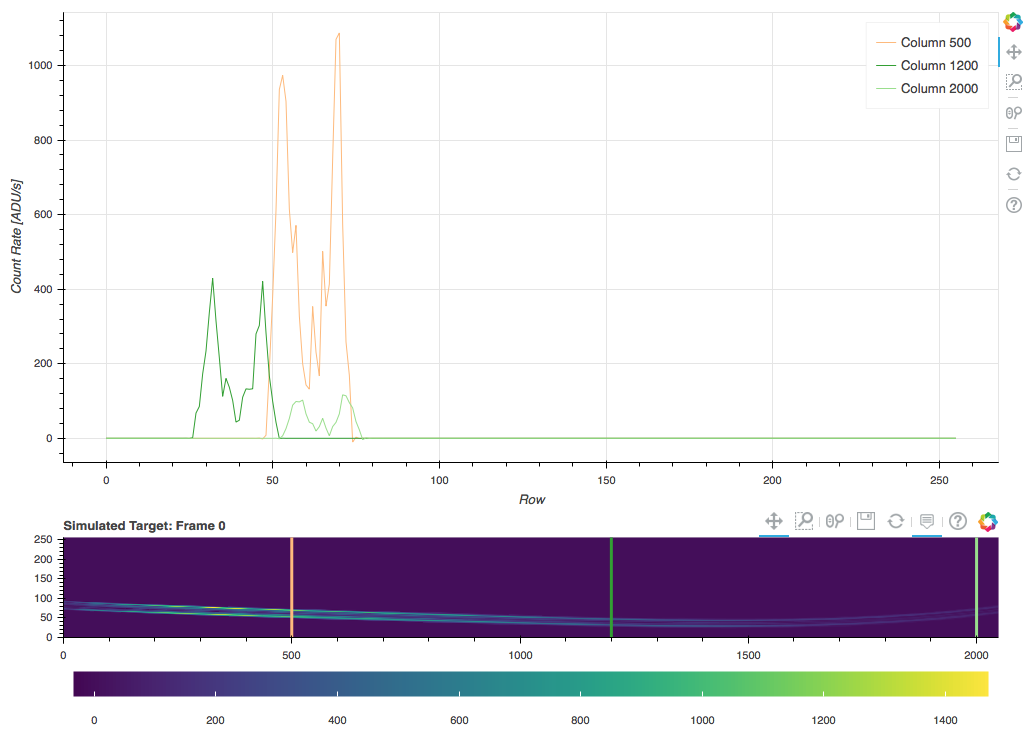
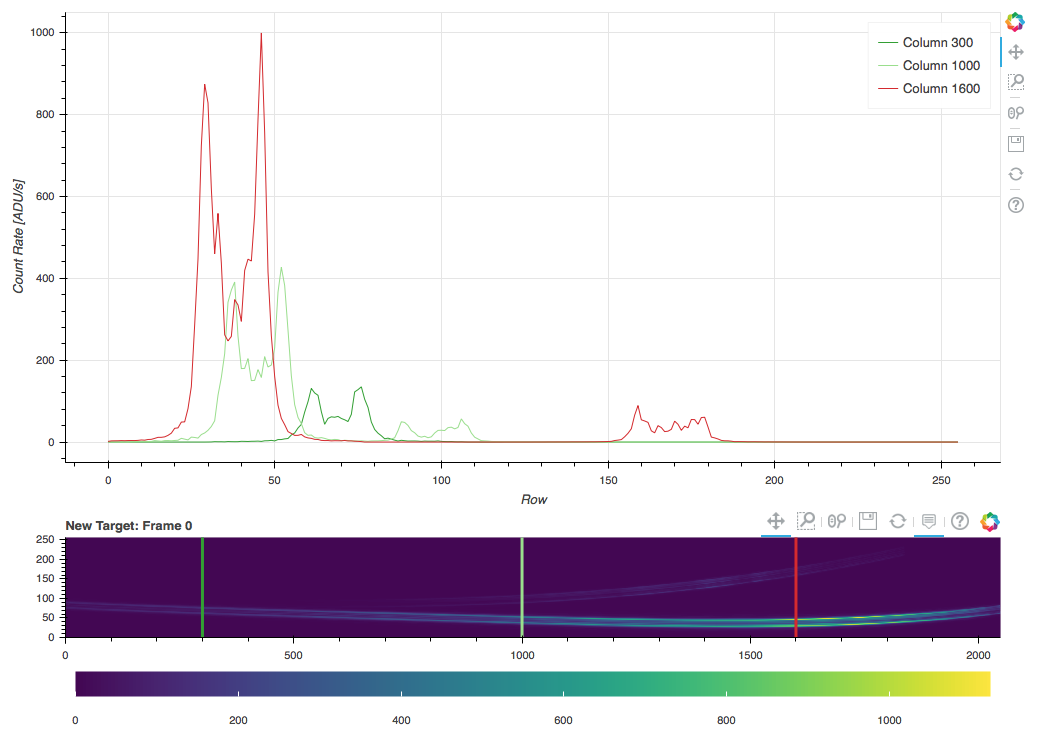
Updated figures and README

diff --git a/awesimsoss/awesim.py b/awesimsoss/awesim.py
@@ -45,13 +45,13 @@ warnings.simplefilter('ignore')
 def run_required(func):
     """A wrapper to check that the simulation has been run before a method can be executed"""
     @wraps(func)
-    def _run_required(*args):
+    def _run_required(*args, **kwargs):
         """Check that the 'tso' attribute is not None"""
         if args[0].tso is None:
             print("No simulation found! Please run the 'simulate' method first.")
 
         else:
-            return func(*args)
+            return func(*args, **kwargs)
 
     return _run_required
 
@@ -148,6 +148,7 @@ class TSO(object):
         # Generate the response function
         self._reset_response()
 
+    @run_required
     def add_noise(self, zodi_scale=1., offset=500):
         """
         Generate ramp and background noise
@@ -163,7 +164,7 @@ class TSO(object):
         start = time.time()
 
         # Get the separated orders
-        orders = np.asarray([self.tso_order1_ideal, self.tso_order2_ideal])
+        orders = np.asarray([getattr(self, 'tso_order{}_ideal'.format(i)) for i in self.orders])
 
         # Load the reference files
         photon_yield = fits.getdata(resource_filename('awesimsoss', 'files/photon_yield_dms.fits'))
@@ -231,6 +232,7 @@ class TSO(object):
 
         print('Noise model finished:', round(time.time()-start, 3), 's')
 
+    @run_required
     def add_refpix(self, counts=0):
         """Add reference pixels to detector edges
 
@@ -645,7 +647,7 @@ class TSO(object):
         show(ramp)
 
     @run_required
-    def plot_lightcurve(self, column=None, time_unit='s', resolution_mult=20):
+    def plot_lightcurve(self, column, time_unit='s', resolution_mult=20):
         """
         Plot a lightcurve for each column index given
 
@@ -672,9 +674,6 @@ class TSO(object):
         # Make it into an array
         if isinstance(column, (int, float)):
             column = [column]
-
-        if column is None:
-            column = list(range(self.tso.shape[-1]))
 
         # Make the figure
         lc = figure()
@@ -784,10 +783,8 @@ class TSO(object):
             self.dims3 = (self.nints*self.ngrps, self.nrows, self.ncols)
 
             # Reset the results
-            self.tso = None
-            self.tso_ideal = None
-            self.tso_order1_ideal = None
-            self.tso_order2_ideal = None
+            for arr in ['tso', 'tso_ideal']+['tso_order{}_ideal'.format(n) for n in self.orders]:
+                setattr(self, arr, None)
 
     def _reset_time(self):
         """Reset the time axis based on the observation settings"""
@@ -1021,12 +1018,12 @@ class TSO(object):
 
         # Trim SUBSTRIP256 array if SUBSTRIP96
         if self.subarray == 'SUBSTRIP96':
-            for arr in ['tso', 'tso_ideal', 'tso_order1_ideal', 'tso_order2_ideal']:
+            for arr in ['tso', 'tso_ideal']+['tso_order{}_ideal'.format(n) for n in self.orders]:
                 setattr(self, arr, getattr(self, arr)[:, :self.nrows, :])
 
         # Expand SUBSTRIP256 array if FULL frame
         if self.subarray == 'FULL':
-            for arr in ['tso', 'tso_ideal', 'tso_order1_ideal', 'tso_order2_ideal']:
+            for arr in ['tso', 'tso_ideal']+['tso_order{}_ideal'.format(n) for n in self.orders]:
                 full = np.zeros(self.dims3)
                 full[:, :256, :] = getattr(self, arr)
                 setattr(self, arr, full)
@@ -1036,10 +1033,9 @@ class TSO(object):
         self.add_noise()
 
         # Reshape into (nints, ngrps, y, x)
-        self.tso = self.tso.reshape(self.dims)
-        self.tso_ideal = self.tso_ideal.reshape(self.dims)
-        self.tso_order1_ideal = self.tso_order1_ideal.reshape(self.dims)
-        self.tso_order2_ideal = self.tso_order2_ideal.reshape(self.dims)
+        for arr in ['tso', 'tso_ideal']+['tso_order{}_ideal'.format(n) for n in self.orders]:
+            data = getattr(self, arr).reshape(self.dims)
+            setattr(self, arr, data)
 
         # Simulate reference pixels
         self.add_refpix()
@@ -1205,7 +1201,7 @@ class TSO(object):
 
 class TestTSO(TSO):
     """Generate a test object for quick access"""
-    def __init__(self, ngrps=2, nints=2, filter='CLEAR', subarray='SUBSTRIP256', run=True, **kwargs):
+    def __init__(self, ngrps=2, nints=2, filter='CLEAR', subarray='SUBSTRIP256', run=True, add_planet=False, **kwargs):
         """Get the test data and load the object
 
         Parameters
@@ -1220,6 +1216,8 @@ class TestTSO(TSO):
             The name of the subarray to use, ['SUBSTRIP256', 'SUBSTRIP96', 'FULL']
         run: bool
             Run the simulation after initialization
+        add_planet: bool
+            Add a transiting exoplanet
         """
         # Get stored data
         file = resource_filename('awesimsoss', 'files/scaled_spectrum.txt')
@@ -1231,12 +1229,31 @@ class TestTSO(TSO):
 
         # Run the simulation
         if run:
-            self.simulate()
+            if add_planet:
+
+                planet1D = np.genfromtxt(resource_filename('awesimsoss', '/files/WASP107b_pandexo_input_spectrum.dat'), unpack=True)
+                params = batman.TransitParams()
+                params.t0 = 0.                                # time of inferior conjunction
+                params.per = 0.001 #5.7214742                        # orbital period (days)
+                params.a = 0.0558*q.AU.to(ac.R_sun)*0.66      # semi-major axis (in units of stellar radii)
+                params.inc = 89.8                             # orbital inclination (in degrees)
+                params.ecc = 0.                               # eccentricity
+                params.w = 90.                                # longitude of periastron (in degrees)
+                params.limb_dark = 'quadratic'                # limb darkening profile to use
+                params.u = [0.1, 0.1]                          # limb darkening coefficients
+                tmodel = batman.TransitModel(params, self.time)
+                tmodel.teff = 3500                            # effective temperature of the host star
+                tmodel.logg = 5                               # log surface gravity of the host star
+                tmodel.feh = 0                                # metallicity of the host star
+                self.simulate(planet=planet1D, tmodel=tmodel)
+
+            else:
+                self.simulate()
 
 
 class BlackbodyTSO(TSO):
     """Generate a test object with a blackbody spectrum"""
-    def __init__(self, ngrps=2, nints=2, teff=1800, filter='CLEAR', subarray='SUBSTRIP256', run=True, **kwargs):
+    def __init__(self, ngrps=2, nints=2, teff=1800, filter='CLEAR', subarray='SUBSTRIP256', run=True, add_planet=False, **kwargs):
         """Get the test data and load the object
 
         Parmeters
@@ -1253,6 +1270,8 @@ class BlackbodyTSO(TSO):
             The name of the subarray to use, ['SUBSTRIP256', 'SUBSTRIP96', 'FULL']
         run: bool
             Run the simulation after initialization
+        add_planet: bool
+            Add a transiting exoplanet
         """
         # Generate a blackbody at the given temperature
         bb = BlackBody1D(temperature=teff*q.K)
@@ -1264,4 +1283,23 @@ class BlackbodyTSO(TSO):
 
         # Run the simulation
         if run:
-            self.simulate()
+            if add_planet:
+
+                planet1D = np.genfromtxt(resource_filename('awesimsoss', '/files/WASP107b_pandexo_input_spectrum.dat'), unpack=True)
+                params = batman.TransitParams()
+                params.t0 = 0.                                # time of inferior conjunction
+                params.per = 5.7214742                        # orbital period (days)
+                params.a = 0.0558*q.AU.to(ac.R_sun)*0.66      # semi-major axis (in units of stellar radii)
+                params.inc = 89.8                             # orbital inclination (in degrees)
+                params.ecc = 0.                               # eccentricity
+                params.w = 90.                                # longitude of periastron (in degrees)
+                params.limb_dark = 'quadratic'                # limb darkening profile to use
+                params.u = [0.1, 0.1]                          # limb darkening coefficients
+                tmodel = batman.TransitModel(params, self.time)
+                tmodel.teff = 3500                            # effective temperature of the host star
+                tmodel.logg = 5                               # log surface gravity of the host star
+                tmodel.feh = 0                                # metallicity of the host star
+                self.simulate(planet=planet1D, tmodel=tmodel)
+
+            else:
+                self.simulate()

diff --git a/README.rst b/README.rst
@@ -49,36 +49,36 @@ seen through SOSS, my code might look like:
 
    # Imports
    import numpy as np
-   from awesimsoss import awesim
+   from awesimsoss import TSO
    import astropy.units as q
-   import astropy.constants as ac
-   import batman
    from pkg_resources import resource_filename
    star = np.genfromtxt(resource_filename('awesimsoss','files/scaled_spectrum.txt'), unpack=True)
    star1D = [star[0]*q.um, (star[1]*q.W/q.m**2/q.um).to(q.erg/q.s/q.cm**2/q.AA)]
 
    # Initialize simulation
-   tso = awesim.TSO(ngrps=3, nints=5, star=star1D)
+   tso = TSO(ngrps=3, nints=5, star=star1D)
                
    # Run it and make a plot
-   tso.run_simulation()
-   tso.plot_frame()
+   tso.simulate()
+   tso.plot()
 
 .. figure:: awesimsoss/img/2D_star.png
    :alt: The output trace
 
-The 96 subarray is also supported:
+The SUBSTRIP256 subarray is the default but the SUBSTRIP96 subarray and
+FULL frame configurations are also supported:
 
 .. code:: python
 
-   tso = awesim.TSO(ngrps=3, nints=5, star=star1D, subarray='SUBSTRIP96')
+   tso96 = TSO(ngrps=3, nints=5, star=star1D, subarray='SUBSTRIP96')
+   tso2048 = TSO(ngrps=3, nints=5, star=star1D, subarray='FULL')
 
 The default filter is CLEAR but you can also simulate observations with
 the F277W filter like so:
 
 .. code:: python
 
-   tso = awesim.TSO(ngrps=3, nints=5, star=star1D, filt='F277W')
+   tso = TSO(ngrps=3, nints=5, star=star1D, filt='F277W')
 
 Simulated Planetary Transits
 ~~~~~~~~~~~~~~~~~~~~~~~~~~~~
@@ -102,10 +102,12 @@ And here are some parameters for our planetary system:
 .. code:: python
 
    # Simulate star with transiting exoplanet by including transmission spectrum and orbital params
+   import batman
+   tso = TSO(ngrps=3, nints=5, star=star1D, run=False)
    params = batman.TransitParams()
    params.t0 = 0. # time of inferior conjunction
    params.per = 5.7214742 # orbital period (days)
-   params.a = 0.0558\* q.AU.to(ac.R_sun)\* 0.66 # semi-major axis (in units of stellar radii)
+   params.a = 0.0558\* q.AU.to(q.R_sun)\* 0.66 # semi-major axis (in units of stellar radii)
    params.rp = 0.1 # radius ratio for Jupiter orbiting the Sun
    params.inc = 89.8 # orbital inclination (in degrees)
    params.ecc = 0. # eccentricity
@@ -121,7 +123,7 @@ Now the code to generate a simulated planetary transit around our star might loo
 
 .. code:: python
 
-   tso.run_simulation(planet=planet1D, tmodel=tmodel, time_unit='seconds')
+   tso.simulate(planet=planet1D, tmodel=tmodel, time_unit='seconds')
    tso.plot_lightcurve(column=42)
 
 We can write this to a FITS file directly ingestible by the JWST pipeline with:
